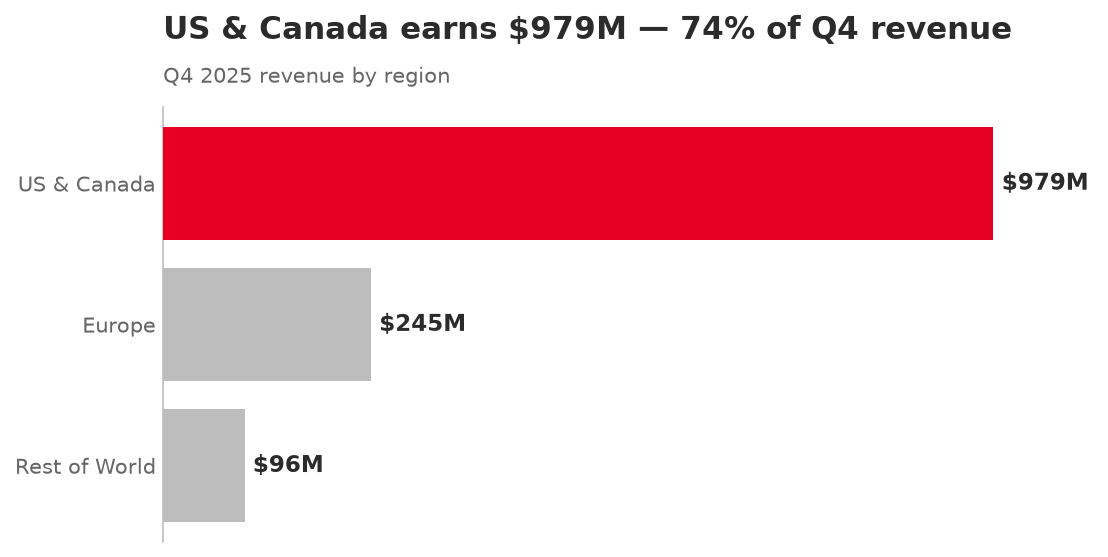
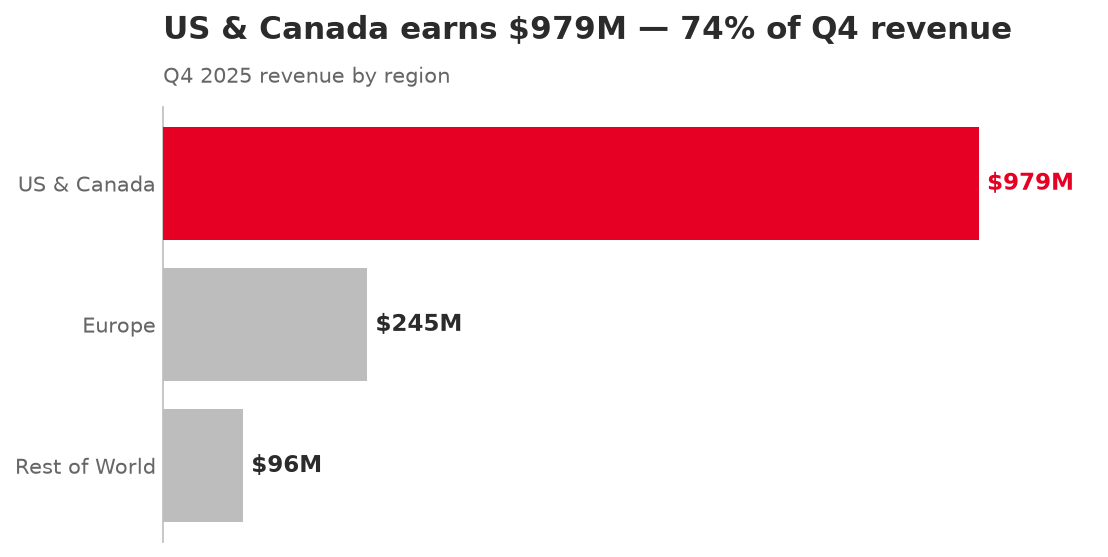
Simplify library core: dedupe bar charts, drop confusing color logic
Merge revenue_bar and arpu_bar into one shared _spotlight_barh helper, fix
the spotlight label to colour correctly with the highlighted bar (was a
never-matching facecolor comparison), and tighten docstrings. core.py drops
221 -> 162 lines; behaviour and public API unchanged, all 9 tests pass.

Claude-Session: https://claude.ai/code/session_012TmZqnf53DuYqMZj6VxjoC

Changed region(s): [[0.8592, 0.2136, 0.9819, 0.4273], [0.3069, 0.4883, 0.4296, 0.6715], [0.2148, 0.7935, 0.3069, 0.8546]]

diff --git a/src/pinviz/core.py b/src/pinviz/core.py
@@ -1,21 +1,16 @@
 """Chart functions for :mod:`pinviz`.
 
 Each function maps to one family in the *Quantitative Chart Chooser* and
-returns a :class:`matplotlib.figure.Figure`, so callers can ``savefig`` it in
-any format. Every function shares the theme in :mod:`pinviz.theme`, so the
-whole library reads as one designed system.
+returns a :class:`matplotlib.figure.Figure`. They all share the theme in
+:mod:`pinviz.theme`, so the library reads as one designed system.
 
-Chart Chooser mapping
----------------------
-=====================  =======================  ===========================
-Function               Chart Chooser family     "So what?" it answers
-=====================  =======================  ===========================
-``big_number``         Single important number  How big is the headline?
-``growth_line``        Change over time         Which way is the trend going?
-``revenue_bar``        Comparison               Who contributes the most?
-``share_gap``          Parts of a whole         Users vs. revenue mismatch
-``arpu_bar``           Comparison / ratio       How well is each region paid?
-=====================  =======================  ===========================
+    Function       Chart Chooser family     "So what?" it answers
+    -----------    ----------------------   ---------------------------
+    big_number     Single important number  How big is the headline?
+    growth_line    Change over time         Which way is the trend going?
+    revenue_bar    Comparison               Who contributes the most?
+    share_gap      Parts of a whole         Users vs. revenue mismatch
+    arpu_bar       Comparison / ratio       How well is each region paid?
 """
 
 from __future__ import annotations
@@ -23,7 +18,6 @@ from __future__ import annotations
 import matplotlib.pyplot as plt
 
 from pinviz.theme import (
-    GRID,
     INK,
     MUTED,
     PIN_RED,
@@ -37,19 +31,14 @@ __all__ = ["big_number", "growth_line", "revenue_bar", "share_gap", "arpu_bar"]
 
 
 def big_number(value, unit, label, footnote="", color=PIN_RED):
-    """A single big-number callout — the Chart Chooser's "one important number".
-
-    Aesthetic choices: no axes, no gridlines, nothing to read but the number.
-    When a single figure *is* the story, a chart would only bury it, so the
-    value is set huge in the highlight colour with a quiet grey caption
-    beneath it.
-    """
+    """One big-number callout. Aesthetic: no axes or gridlines — when a single
+    figure *is* the story, the number is set huge in the highlight colour with
+    a quiet grey caption, so nothing competes with it."""
     fig, ax = plt.subplots(figsize=(6, 3.5))
     ax.axis("off")
     ax.text(0.5, 0.60, f"{value}{unit}", ha="center", va="center",
             fontsize=64, fontweight="bold", color=color)
-    ax.text(0.5, 0.24, label, ha="center", va="center",
-            fontsize=15, color=INK)
+    ax.text(0.5, 0.24, label, ha="center", va="center", fontsize=15, color=INK)
     if footnote:
         ax.text(0.5, 0.07, footnote, ha="center", va="center",
                 fontsize=11, color=SUBTLE)
@@ -57,15 +46,9 @@ def big_number(value, unit, label, footnote="", color=PIN_RED):
 
 
 def growth_line(df, x, y, title, subtitle="", annotate=None, value_fmt="{:.0f}M"):
-    """A line chart for change over time, with the last point labelled directly.
-
-    Aesthetic choices: a zero-based y-axis (so the growth isn't visually
-    exaggerated), a direct end-of-line label instead of forcing the reader to
-    a y-axis, and an optional annotation to explain an anomaly in plain
-    language rather than leaving the dip unexplained.
-
-    ``annotate`` is an optional ``(x_value, "note text")`` pair.
-    """
+    """Line chart for change over time. Aesthetic: zero-based y-axis (growth
+    isn't exaggerated), the last point labelled directly (no y-axis hunting),
+    and an optional ``(x_value, "note")`` annotation to explain an anomaly."""
     data = df.sort_values(x)
     fig, ax = new_axes()
     apply_base_style(ax)
@@ -82,11 +65,9 @@ def growth_line(df, x, y, title, subtitle="", annotate=None, value_fmt="{:.0f}M"
     if annotate is not None:
         ax_x, note = annotate
         row = data[data[x] == ax_x].iloc[0]
-        ax.annotate(
-            note, xy=(row[x], row[y]), xytext=(0, -46),
-            textcoords="offset points", ha="center", fontsize=9, color=SUBTLE,
-            arrowprops=dict(arrowstyle="->", color=MUTED),
-        )
+        ax.annotate(note, xy=(row[x], row[y]), xytext=(0, -46),
+                    textcoords="offset points", ha="center", fontsize=9,
+                    color=SUBTLE, arrowprops=dict(arrowstyle="->", color=MUTED))
 
     ax.set_xticks(list(data[x]))
     ax.margins(x=0.08)
@@ -94,63 +75,60 @@ def growth_line(df, x, y, title, subtitle="", annotate=None, value_fmt="{:.0f}M"
     return fig
 
 
-def revenue_bar(df, category, value, title, subtitle="", spotlight=None,
-                value_fmt="${:,.0f}M"):
-    """A horizontal bar chart for comparison, with one bar spotlighted.
-
-    Aesthetic choices: horizontal bars so long category labels stay
-    left-to-right readable; bars sorted by size so rank is obvious; and a
-    single spotlighted bar in the highlight colour while the rest are muted
-    grey, so the eye lands on the point being made. Values are labelled at the
-    end of each bar, removing the need for a busy x-axis.
-    """
-    data = df.sort_values(value, ascending=True)
-    cats = list(data[category])
-    vals = list(data[value])
+def _spotlight_barh(cats, vals, spotlight, value_fmt, title, subtitle, figsize):
+    """Shared horizontal-bar drawing for revenue_bar and arpu_bar. Aesthetic:
+    bars sorted by size, one spotlighted bar in the highlight colour while the
+    rest are grey, and end-of-bar value labels so no x-axis is needed."""
     colors = [PIN_RED if c == spotlight else MUTED for c in cats]
-
-    fig, ax = new_axes(figsize=(8, 4.2))
+    fig, ax = new_axes(figsize=figsize)
     for side in ("top", "right", "bottom"):
         ax.spines[side].set_visible(False)
     ax.spines["left"].set_color(MUTED)
     ax.tick_params(length=0, colors=SUBTLE)
 
-    bars = ax.barh(cats, vals, color=colors, zorder=3)
+    ax.barh(cats, vals, color=colors, zorder=3)
     ax.set_xticks([])
     pad = max(vals) * 0.01
-    for bar, v in zip(bars, vals):
-        ax.text(bar.get_width() + pad, bar.get_y() + bar.get_height() / 2,
-                value_fmt.format(v), va="center", ha="left",
+    for c, v in zip(cats, vals):
+        ax.text(v + pad, c, value_fmt.format(v), va="center", ha="left",
                 fontsize=11, fontweight="bold",
-                color=INK if bar.get_facecolor()[:3] != (1.0, 0.0, 0.0) else PIN_RED)
-    ax.margins(x=0.12)
+                color=PIN_RED if c == spotlight else INK)
+    ax.margins(x=0.14)
     titles(ax, title, subtitle)
     return fig
 
 
+def revenue_bar(df, category, value, title, subtitle="", spotlight=None,
+                value_fmt="${:,.0f}M"):
+    """Horizontal bar chart for comparison, with one bar spotlighted."""
+    data = df.sort_values(value, ascending=True)
+    return _spotlight_barh(list(data[category]), list(data[value]), spotlight,
+                           value_fmt, title, subtitle, figsize=(8, 4.2))
+
+
+def arpu_bar(df, category, revenue, users, title, subtitle="", spotlight=None):
+    """Comparison bars of an implied ratio: revenue per user by category.
+    The ratio is computed here (revenue / users), never hand-entered."""
+    data = df.copy()
+    data["_arpu"] = data[revenue] / data[users]
+    data = data.sort_values("_arpu", ascending=True)
+    return _spotlight_barh(list(data[category]), list(data["_arpu"]), spotlight,
+                           "${:,.2f}", title, subtitle, figsize=(8, 4.2))
+
+
 def share_gap(df, category, part_a, part_b, title, subtitle="",
               label_a="Share A", label_b="Share B", highlight=None):
-    """Paired 100%-normalised bars comparing two parts-of-a-whole splits.
-
-    This is the library's signature chart. Two stacked bars — one for each
-    metric — are each normalised to 100%, so the reader compares *composition*
-    directly and sees the mismatch (e.g. a region that is a big share of users
-    but a tiny share of revenue).
-
-    Aesthetic choices: the highlighted segment uses the brand colour across
-    both bars so the eye tracks the same region between them; the other
-    segments use graded greys; each segment is labelled with its percentage
-    in-place, so no legend hunting is required.
-    """
+    """Paired 100%-normalised bars comparing two parts-of-a-whole splits — the
+    library's signature chart. Aesthetic: each bar is normalised to 100% so
+    the reader compares composition directly; the highlighted region uses the
+    brand colour across both bars so the eye tracks it; percentages are
+    labelled in-place, so there's no legend to hunt through."""
     cats = list(df[category])
-    a = list(df[part_a])
-    b = list(df[part_b])
-    a_pct = [100 * v / sum(a) for v in a]
-    b_pct = [100 * v / sum(b) for v in b]
+    a_pct = [100 * v / df[part_a].sum() for v in df[part_a]]
+    b_pct = [100 * v / df[part_b].sum() for v in df[part_b]]
 
     greys = ["#8A8A8A", "#BDBDBD", "#DADADA", "#EAEAEA"]
-    color_for = {}
-    gi = 0
+    color_for, gi = {}, 0
     for c in cats:
         if c == highlight:
             color_for[c] = PIN_RED
@@ -163,59 +141,22 @@ def share_gap(df, category, part_a, part_b, title, subtitle="",
         ax.spines[side].set_visible(False)
     ax.tick_params(length=0, colors=SUBTLE)
 
-    bar_labels = [label_a, label_b]
     left_a = left_b = 0
-    for i, c in enumerate(cats):
-        ax.barh(bar_labels[0], a_pct[i], left=left_a, color=color_for[c], zorder=3)
-        ax.barh(bar_labels[1], b_pct[i], left=left_b, color=color_for[c], zorder=3)
-        # in-place percentage labels (only when the segment is wide enough)
-        if a_pct[i] > 6:
-            ax.text(left_a + a_pct[i] / 2, 0, f"{a_pct[i]:.0f}%",
-                    ha="center", va="center", fontsize=10,
-                    color="white" if c == highlight else INK, fontweight="bold")
-        if b_pct[i] > 6:
-            ax.text(left_b + b_pct[i] / 2, 1, f"{b_pct[i]:.0f}%",
-                    ha="center", va="center", fontsize=10,
-                    color="white" if c == highlight else INK, fontweight="bold")
-        left_a += a_pct[i]
-        left_b += b_pct[i]
+    for c, ap, bp in zip(cats, a_pct, b_pct):
+        ax.barh(label_a, ap, left=left_a, color=color_for[c], zorder=3)
+        ax.barh(label_b, bp, left=left_b, color=color_for[c], zorder=3)
+        text_color = "white" if c == highlight else INK
+        if ap > 6:
+            ax.text(left_a + ap / 2, 0, f"{ap:.0f}%", ha="center", va="center",
+                    fontsize=10, color=text_color, fontweight="bold")
+        if bp > 6:
+            ax.text(left_b + bp / 2, 1, f"{bp:.0f}%", ha="center", va="center",
+                    fontsize=10, color=text_color, fontweight="bold")
+        left_a += ap
+        left_b += bp
 
     ax.set_xlim(0, 100)
     ax.set_xticks([])
     ax.invert_yaxis()
-    titles(ax, title, subtitle)
-    return fig
-
-
-def arpu_bar(df, category, revenue, users, title, subtitle="",
-             spotlight=None):
-    """Comparison bars of an implied ratio: revenue per user by category.
-
-    Computes revenue-per-user = revenue / users directly from the source
-    columns (so the ratio is never hand-entered) and draws it as a spotlighted
-    bar chart. Aesthetic choices mirror :func:`revenue_bar`: sorted bars, one
-    highlight colour, end-of-bar value labels, dollar formatting.
-    """
-    data = df.copy()
-    data["_arpu"] = data[revenue] / data[users]
-    data = data.sort_values("_arpu", ascending=True)
-    cats = list(data[category])
-    vals = list(data["_arpu"])
-    colors = [PIN_RED if c == spotlight else MUTED for c in cats]
-
-    fig, ax = new_axes(figsize=(8, 4.2))
-    for side in ("top", "right", "bottom"):
-        ax.spines[side].set_visible(False)
-    ax.spines["left"].set_color(MUTED)
-    ax.tick_params(length=0, colors=SUBTLE)
-
-    bars = ax.barh(cats, vals, color=colors, zorder=3)
-    ax.set_xticks([])
-    pad = max(vals) * 0.01
-    for bar, v in zip(bars, vals):
-        ax.text(bar.get_width() + pad, bar.get_y() + bar.get_height() / 2,
-                f"${v:,.2f}", va="center", ha="left",
-                fontsize=11, fontweight="bold", color=INK)
-    ax.margins(x=0.14)
     titles(ax, title, subtitle)
     return fig
